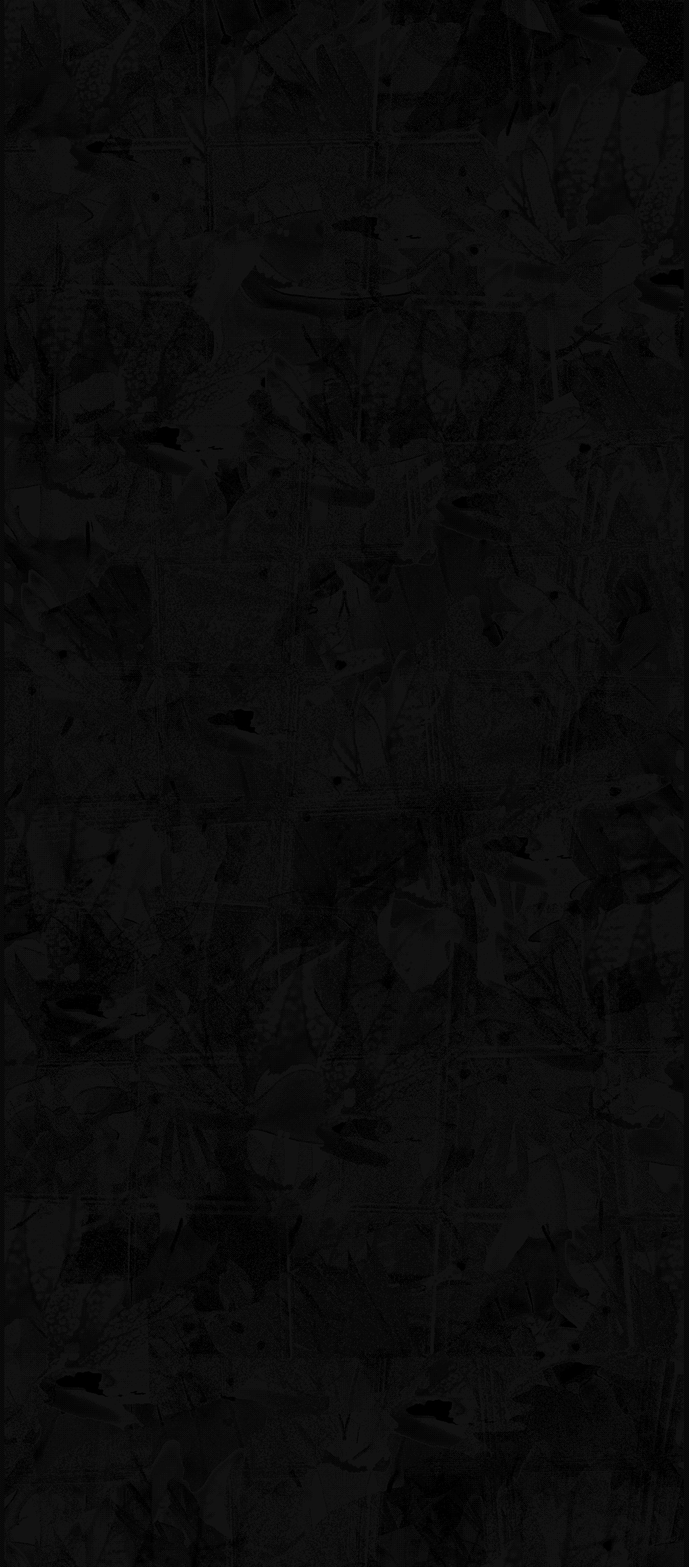
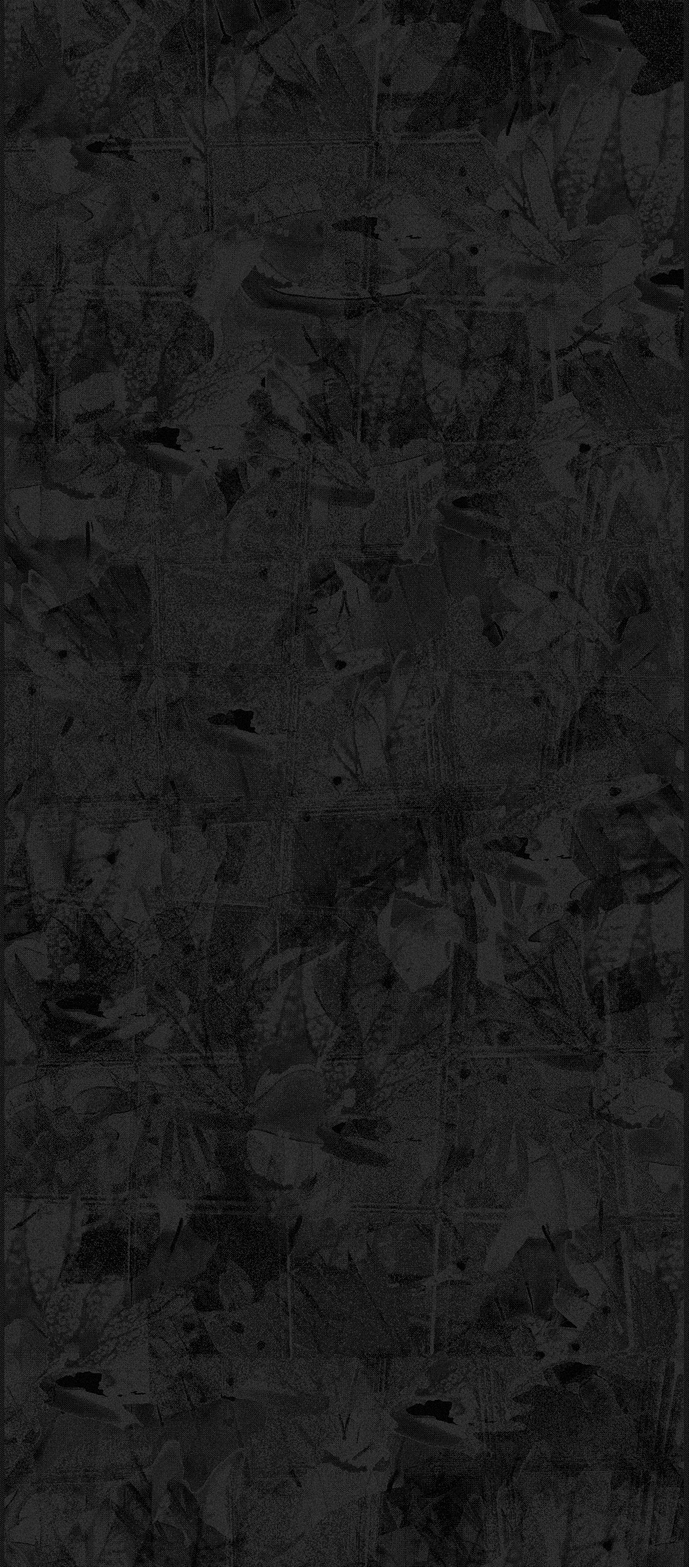
update

diff --git a/erasynthesis.html b/erasynthesis.html
@@ -50,7 +50,7 @@
             <a href="erasynsoundtex.html" class="overlaybox"><img src="Images/computerping.png" class="draggable soundtexmap" alt="sound textile map"></a>
           </div>
           <div>
-            <a href="erasynactionrecep.html" class="overlaybox"><img src="Images/actionreception.jpg" class="draggable actionrecep" alt="action reception text" ></a>
+            <a href="erasynactionrecep.html" class="overlaybox"><img src="Images/actionreception.png" class="draggable actionrecep" alt="action reception text" ></a>
           </div>
       </div>
 
